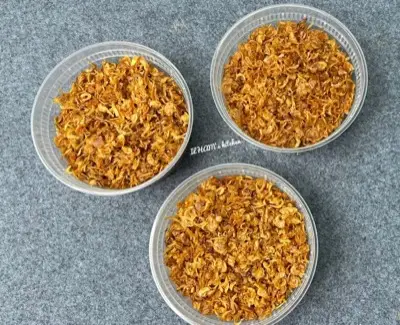
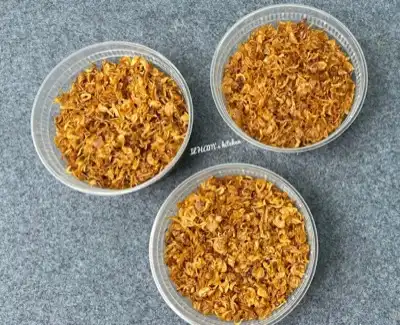
PERF: inline CSS (critters), compress gallery q50, eliminate render-blocking CSS

diff --git a/next.config.ts b/next.config.ts
@@ -3,6 +3,7 @@ import type { NextConfig } from "next";
 const nextConfig: NextConfig = {
   experimental: {
     optimizeCss: true,
+    inlineCss: true,
     optimizePackageImports: ['lucide-react'],
   },
 };
